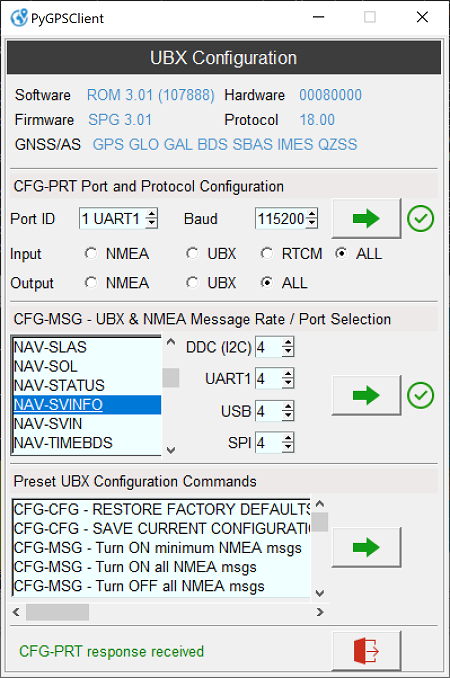
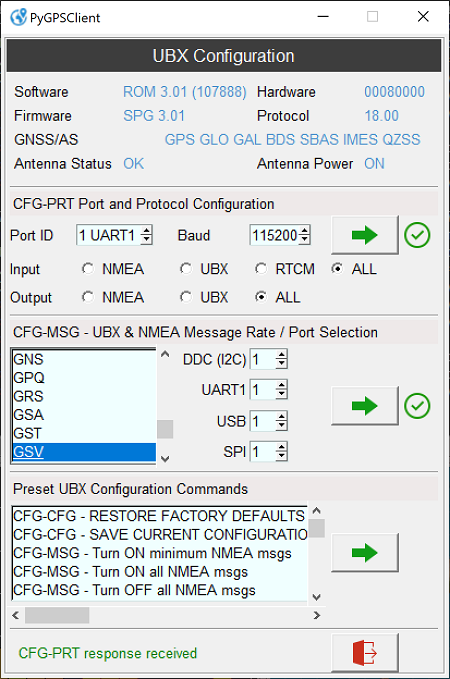
add antenna status

diff --git a/pygpsclient/ubx_config_dialog.py b/pygpsclient/ubx_config_dialog.py
@@ -48,6 +48,8 @@ from .globals import (
     PORTIDS,
     BAUDRATES,
     READONLY,
+    ANTPOWER,
+    ANTSTATUS,
 )
 from .strings import (
     LBLUBXCONFIG,
@@ -152,6 +154,8 @@ class UBXConfigDialog:
         self._sw_version = StringVar()
         self._hw_version = StringVar()
         self._fw_version = StringVar()
+        self._ant_status = StringVar()
+        self._ant_power = StringVar()
         self._protocol = StringVar()
         self._gnss_supported = StringVar()
 
@@ -199,6 +203,10 @@ class UBXConfigDialog:
         self._lbl_romver = Label(inf, textvariable=self._protocol, fg=INFCOL)
         self._lbl_gnssl = Label(inf, text="GNSS/AS")
         self._lbl_gnss = Label(inf, textvariable=self._gnss_supported, fg=INFCOL)
+        self._lbl_ant_statusl = Label(inf, text="Antenna Status")
+        self._lbl_ant_status = Label(inf, textvariable=self._ant_status, fg=INFCOL)
+        self._lbl_ant_powerl = Label(inf, text="Antenna Power")
+        self._lbl_ant_power = Label(inf, textvariable=self._ant_power, fg=INFCOL)
 
         # *******************************************************
         # Port Configuration
@@ -399,6 +407,14 @@ class UBXConfigDialog:
         self._lbl_gnss.grid(column=2, row=2, columnspan=4, padx=2, sticky=(W))
 
         # *******************************************************
+        # MON-HW Antenna Status
+        # *******************************************************
+        self._lbl_ant_statusl.grid(column=0, row=3, columnspan=1, padx=2, sticky=(W))
+        self._lbl_ant_status.grid(column=1, row=3, columnspan=2, padx=2, sticky=(W))
+        self._lbl_ant_powerl.grid(column=3, row=3, columnspan=1, padx=2, sticky=(W))
+        self._lbl_ant_power.grid(column=4, row=3, columnspan=2, padx=2, sticky=(W))
+
+        # *******************************************************
         # CFG-PRT Port Configuration
         # *******************************************************
         ttk.Separator(self._frm_container).grid(
@@ -524,7 +540,7 @@ class UBXConfigDialog:
         :kwargs kwargs: optional key value pairs
         """
 
-        # MON-VER information
+        # MON-VER information (for firmware version)
         if cfgtype == "MON-VER":
             self._sw_version.set(kwargs.get("swversion", ""))
             self._hw_version.set(kwargs.get("hwversion", ""))
@@ -532,9 +548,12 @@ class UBXConfigDialog:
             self._protocol.set(kwargs.get("protocol", ""))
             self._gnss_supported.set(kwargs.get("gnsssupported", ""))
 
+        # MON-HW information (for antenna status)
+        if cfgtype == "MON-HW":
+            self._ant_status.set(ANTSTATUS[kwargs.get("antstatus", 1)])
+            self._ant_power.set(ANTPOWER[kwargs.get("antpower", 2)])
+
         # CFG-PRT command confirmation
-        #         if "portid" in kwargs:
-        #             self._spn_ubx_portid.set(kwargs["portid"])
         if "baudrate" in kwargs:
             self._ubx_baudrate.set(str(kwargs["baudrate"]))
         if "inprot" in kwargs:

diff --git a/pygpsclient/ubx_handler.py b/pygpsclient/ubx_handler.py
@@ -71,7 +71,7 @@ class UBXHandler:
         :param serial
         """
 
-        for msgtype in ("CFG-PRT", "MON-VER"):
+        for msgtype in ("CFG-PRT", "MON-VER", "MON-HW"):
             msg = UBXMessage(msgtype[0:3], msgtype, POLL)
             serial.write(msg.serialize())
 
@@ -110,6 +110,8 @@ class UBXHandler:
             self._process_NAV_DOP(parsed_data)
         if parsed_data.identity == "MON-VER":
             self._process_MON_VER(parsed_data)
+        if parsed_data.identity == "MON-HW":
+            self._process_MON_HW(parsed_data)
         if data or parsed_data:
             self._update_console(data, parsed_data)
 
@@ -441,6 +443,23 @@ class UBXHandler:
         except ValueError:
             # self.__app.set_status(ube.UBXMessageError(err), "red")
             pass
+
+    def _process_MON_HW(self, data: UBXMessage):
+        """
+        Process MON-VER sentence - Receiver Software / Hardware version information.
+
+        :param data: UBXMessage
+        """
+
+        ant_status = getattr(data, "aStatus", 1)
+        ant_power = getattr(data, "aPower", 2)
+        print(f"_process_MON_VER status {ant_status} power {ant_power}")
+
+        # update the UBX config panel
+        if self.__app.dlg_ubxconfig is not None:
+            self.__app.dlg_ubxconfig.update(
+                "MON-HW", antstatus=ant_status, antpower=ant_power
+            )
 
     @staticmethod
     def msgclass2bytes(msgClass: int, msgID: int) -> bytes:

diff --git a/pygpsclient/globals.py b/pygpsclient/globals.py
@@ -51,6 +51,8 @@ DEVICE_ACCURACY = 2.5  # nominal GPS device accuracy (CEP) in meters
 HDOP_RATIO = 20  # arbitrary calibration of accuracy against HDOP
 KNOWNGPS = ("GPS", "gps", "GNSS", "gnss", "Garmin", "garmin", "U-Blox", "u-blox")
 PORTIDS = ("0 I2C", "1 UART1", "3 USB", "4 SPI")
+ANTSTATUS = ("INIT", "DONTKNOW", "OK", "SHORT", "OPEN")
+ANTPOWER = ("OFF", "ON", "DONTKNOW")
 BAUDRATES = (115200, 57600, 38400, 19200, 9600, 4800)
 PARITIES = {
     "Even": PARITY_EVEN,

diff --git a/pygpsclient/_version.py b/pygpsclient/_version.py
@@ -1,1 +1,1 @@
-__version__ = "0.2.12"
+__version__ = "0.2.13"
